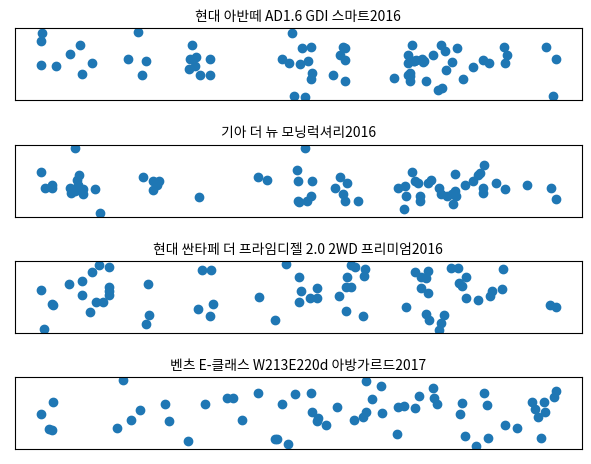
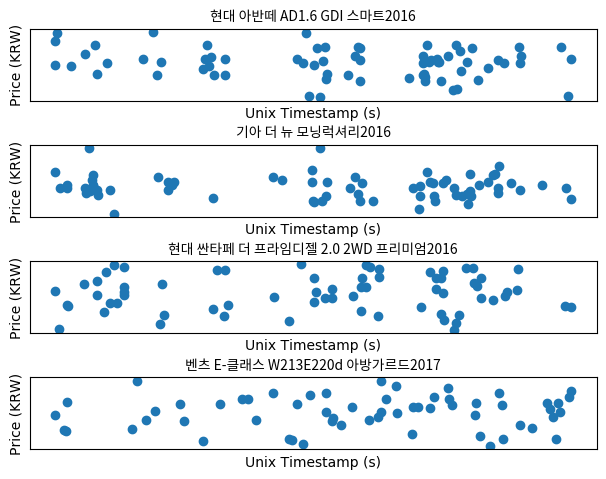
Add a script to remove duplicate files

diff --git a/js/process_encar_04.py b/js/process_encar_04.py
@@ -1,0 +1,83 @@
+from typing import List, Sequence, Tuple, Dict
+from scipy.stats import linregress
+import pandas as pd
+import numpy as np
+from os import listdir, path
+import json
+import io
+from operator import itemgetter
+import matplotlib.pyplot as plt
+import matplotlib.font_manager as fm
+from encar_helper_one import norm, clean_price, clean_title, clean_plate, clean_fuel, clean_transmission, clean_color, clean_registered, clean_mileage, clean_model_year, format_chartjs
+
+font_name = 'NotoSansKR-Regular.otf'
+fontprop = fm.FontProperties(fname=font_name, size=10)
+
+
+root = 'csv_encar'
+latest = sorted([x for x in listdir(root) if '.csv' in x])[-1]
+df = pd.read_csv(path.join(root, latest)).dropna()
+df.columns = ['car_id', 'timestamp', 'title', 'plate', 'price', 'mileage', 'color',
+              'model_year', 'registered', 'fuel', 'transmission', 'options', 'accident']
+
+df_encar = df.drop_duplicates(subset='plate', keep='last', inplace=False)
+df_encar.title = df_encar.title.map(clean_title)
+df_encar.plate = df_encar.plate.map(clean_plate)
+df_encar.price = df_encar.price.map(clean_price)
+df_encar.mileage = df_encar.mileage.map(clean_mileage)
+df_encar.color = df_encar.color.map(clean_color)
+df_encar.model_year = df_encar.model_year.map(clean_model_year)
+df_encar.registered = df_encar.registered.map(clean_registered)
+df_encar.fuel = df_encar.fuel.map(clean_fuel)
+df_encar.transmission = df_encar.transmission.map(clean_transmission)
+df_encar = df_encar[(df_encar.plate != '') & (
+    df_encar.price > 0) & (df_encar.timestamp > 0)]
+df_encar['name'] = df_encar['title'].astype(
+    str) + df_encar['model_year'].astype(str)
+
+names = [(norm(x), len(df_encar[df_encar.name == x]))
+         for x in df_encar.name.unique()]
+
+names.sort(key=itemgetter(1), reverse=True)
+
+# Plot timestamp vs price
+#fig, ax = plt.subplots(3)
+#fig.tight_layout()
+#for i, name in enumerate(names[:3]):
+#    df_vals = df_encar[df_encar.name == name[0]]
+#    ax[i].scatter(df_vals.timestamp, df_vals.price)
+#    coef = np.polyfit(df_vals.timestamp, df_vals.price, 1)
+#    poly1d_fn = np.poly1d(coef) 
+#    ax[i].plot(df_vals.timestamp, df_vals.price, 'yo', df_vals.timestamp, poly1d_fn(df_vals.timestamp), '--k')
+#    reg = linregress(df_vals.timestamp, df_vals.price)
+#    rvalue = f'r: {round(reg.rvalue, 4)}'
+#    pvalue = f'p: {round(reg.pvalue, 4)}'
+#    stderr = f'err: {round(reg.stderr, 4)}'
+#    ax[i].set_title(f'{name[0]}, ({rvalue}, {pvalue}, {stderr})', fontproperties=fontprop)
+#    ax[i].set_xticks([])
+#    ax[i].set_xlabel('Unix Timestamp (S)')
+#    ax[i].set_yticks([])
+#    ax[i].set_ylabel('Price (KRW)')
+#
+#plt.savefig(path.join('experiments', 'process_encar_04', 'timestamp-price.png'), bbox_inches="tight")
+
+# Plot mileage vs price
+fig, ax = plt.subplots(3)
+fig.tight_layout()
+for i, name in enumerate(names[:3]):
+    df_vals = df_encar[df_encar.name == name[0]]
+    ax[i].scatter(df_vals.mileage, df_vals.price)
+    coef = np.polyfit(df_vals.mileage, df_vals.price, 1)
+    poly1d_fn = np.poly1d(coef) 
+    ax[i].plot(df_vals.mileage, df_vals.price, 'yo', df_vals.mileage, poly1d_fn(df_vals.mileage), '--k')
+    reg = linregress(df_vals.mileage, df_vals.price)
+    rvalue = f'r: {round(reg.rvalue, 4)}'
+    pvalue = f'p: {round(reg.pvalue, 4)}'
+    stderr = f'err: {round(reg.stderr, 4)}'
+    ax[i].set_title(f'{name[0]}, ({rvalue}, {pvalue}, {stderr})', fontproperties=fontprop)
+    ax[i].set_xticks([])
+    ax[i].set_xlabel('Mileage (KM)')
+    ax[i].set_yticks([])
+    ax[i].set_ylabel('Price (KRW)')
+
+plt.savefig(path.join('experiments', 'process_encar_04', 'mileage-price.png'), bbox_inches="tight")

diff --git a/js/process_encar_03.py b/js/process_encar_03.py
@@ -1,0 +1,55 @@
+from typing import List, Sequence, Tuple, Dict
+import pandas as pd
+from os import listdir, path
+import json
+import io
+from operator import itemgetter
+import matplotlib.pyplot as plt
+import matplotlib.font_manager as fm
+from encar_helper_one import norm, clean_price, clean_title, clean_plate, clean_fuel, clean_transmission, clean_color, clean_registered, clean_mileage, clean_model_year, format_chartjs
+
+font_name = 'NotoSansKR-Regular.otf'
+fontprop = fm.FontProperties(fname=font_name, size=10)
+
+
+
+
+root = 'csv_encar'
+latest = sorted([x for x in listdir(root) if '.csv' in x])[-1]
+df = pd.read_csv(path.join(root, latest)).dropna()
+df.columns = ['car_id', 'timestamp', 'title', 'plate', 'price', 'mileage', 'color',
+              'model_year', 'registered', 'fuel', 'transmission', 'options', 'accident']
+
+df_encar = df.drop_duplicates(subset='plate', keep='last', inplace=False)
+df_encar.title = df_encar.title.map(clean_title)
+df_encar.plate = df_encar.plate.map(clean_plate)
+df_encar.price = df_encar.price.map(clean_price)
+df_encar.mileage = df_encar.mileage.map(clean_mileage)
+df_encar.color = df_encar.color.map(clean_color)
+df_encar.model_year = df_encar.model_year.map(clean_model_year)
+df_encar.registered = df_encar.registered.map(clean_registered)
+df_encar.fuel = df_encar.fuel.map(clean_fuel)
+df_encar.transmission = df_encar.transmission.map(clean_transmission)
+df_encar = df_encar[(df_encar.plate != '') & (
+    df_encar.price > 0) & (df_encar.timestamp > 0)]
+df_encar['name'] = df_encar['title'].astype(
+    str) + df_encar['model_year'].astype(str)
+
+names = [(norm(x), len(df_encar[df_encar.name == x]))
+         for x in df_encar.name.unique()]
+
+names.sort(key=itemgetter(1), reverse=True)
+
+# select the top 4 most numerous car models
+fig, ax = plt.subplots(4)
+fig.tight_layout()
+for i, name in enumerate(names[:4]):
+    df_vals = df_encar[df_encar.name == name[0]]
+    ax[i].scatter(df_vals.timestamp, df_vals.price)
+    ax[i].set_title(name[0], fontproperties=fontprop)
+    ax[i].set_xticks([])
+    ax[i].set_yticks([])
+
+
+plt.savefig(path.join('experiments', 'process_encar_02',
+                      'timeseries.png'), bbox_inches="tight")

diff --git a/js/encar_helper_one.py b/js/encar_helper_one.py
@@ -1,0 +1,51 @@
+from typing import List, Sequence, Tuple, Dict
+import unicodedata as ud
+
+def norm(in_val: str) -> str:
+    return ud.normalize('NFC', str(in_val)).strip()
+
+
+def clean_price(in_val: str) -> int:
+    return int(in_val) * 10_000
+
+
+def clean_title(in_val: str) -> str:
+    return in_val.replace('자세히보기', '').strip()
+
+
+def clean_plate(in_val: str) -> str:
+    return in_val.replace('자세히보기', '').strip()
+
+
+def clean_fuel(in_val: str) -> str:
+    return in_val.replace('자세히보기', '').strip()
+
+
+def clean_transmission(in_val: str) -> str:
+    return in_val.replace('자세히보기', '').strip()
+
+
+def clean_color(in_val: str) -> str:
+    return in_val.replace('자세히보기', '').strip()
+
+
+def clean_registered(in_val: str) -> str:
+    return str(in_val).replace('자세히보기', '').strip()
+
+
+def clean_mileage(in_val: str) -> int:
+    return int(in_val)
+
+
+def clean_model_year(in_val: str) -> str:
+    return str(in_val)
+
+
+def format_chartjs(in_val: Sequence[Tuple[str, int]]) -> Dict:
+    data: List[int] = []
+    labels: List[str] = []
+    for x in in_val:
+        labels.append(x[0])
+        data.append(x[1])
+    return {'data': data, 'labels': labels}
+

diff --git a/js/clean_duplicates.py b/js/clean_duplicates.py
@@ -1,0 +1,26 @@
+import hashlib
+from os import path, listdir, remove
+
+def md5(fname: str) -> str:
+    hash_md5 = hashlib.md5()
+    with open(fname, "rb") as f:
+        for chunk in iter(lambda: f.read(4096), b""):
+            hash_md5.update(chunk)
+    return hash_md5.hexdigest()
+
+for root in [x for x in listdir('.') if path.isdir(x)]:
+    print(f'Searching through {root}')
+    m5_map = {}
+    total = 0
+    duplicates = 0
+    for fpath in [path.join(root, x) for x in listdir(root) if '.html' in x]:
+        total += 1
+        m5 = md5(fpath)
+        if m5_map.get(m5) is None:
+            m5_map[m5] = True
+        else:
+            duplicates += 1
+            remove(fpath)
+    
+    print(f'total: {total}, duplicates: {duplicates}\n\n')
+
